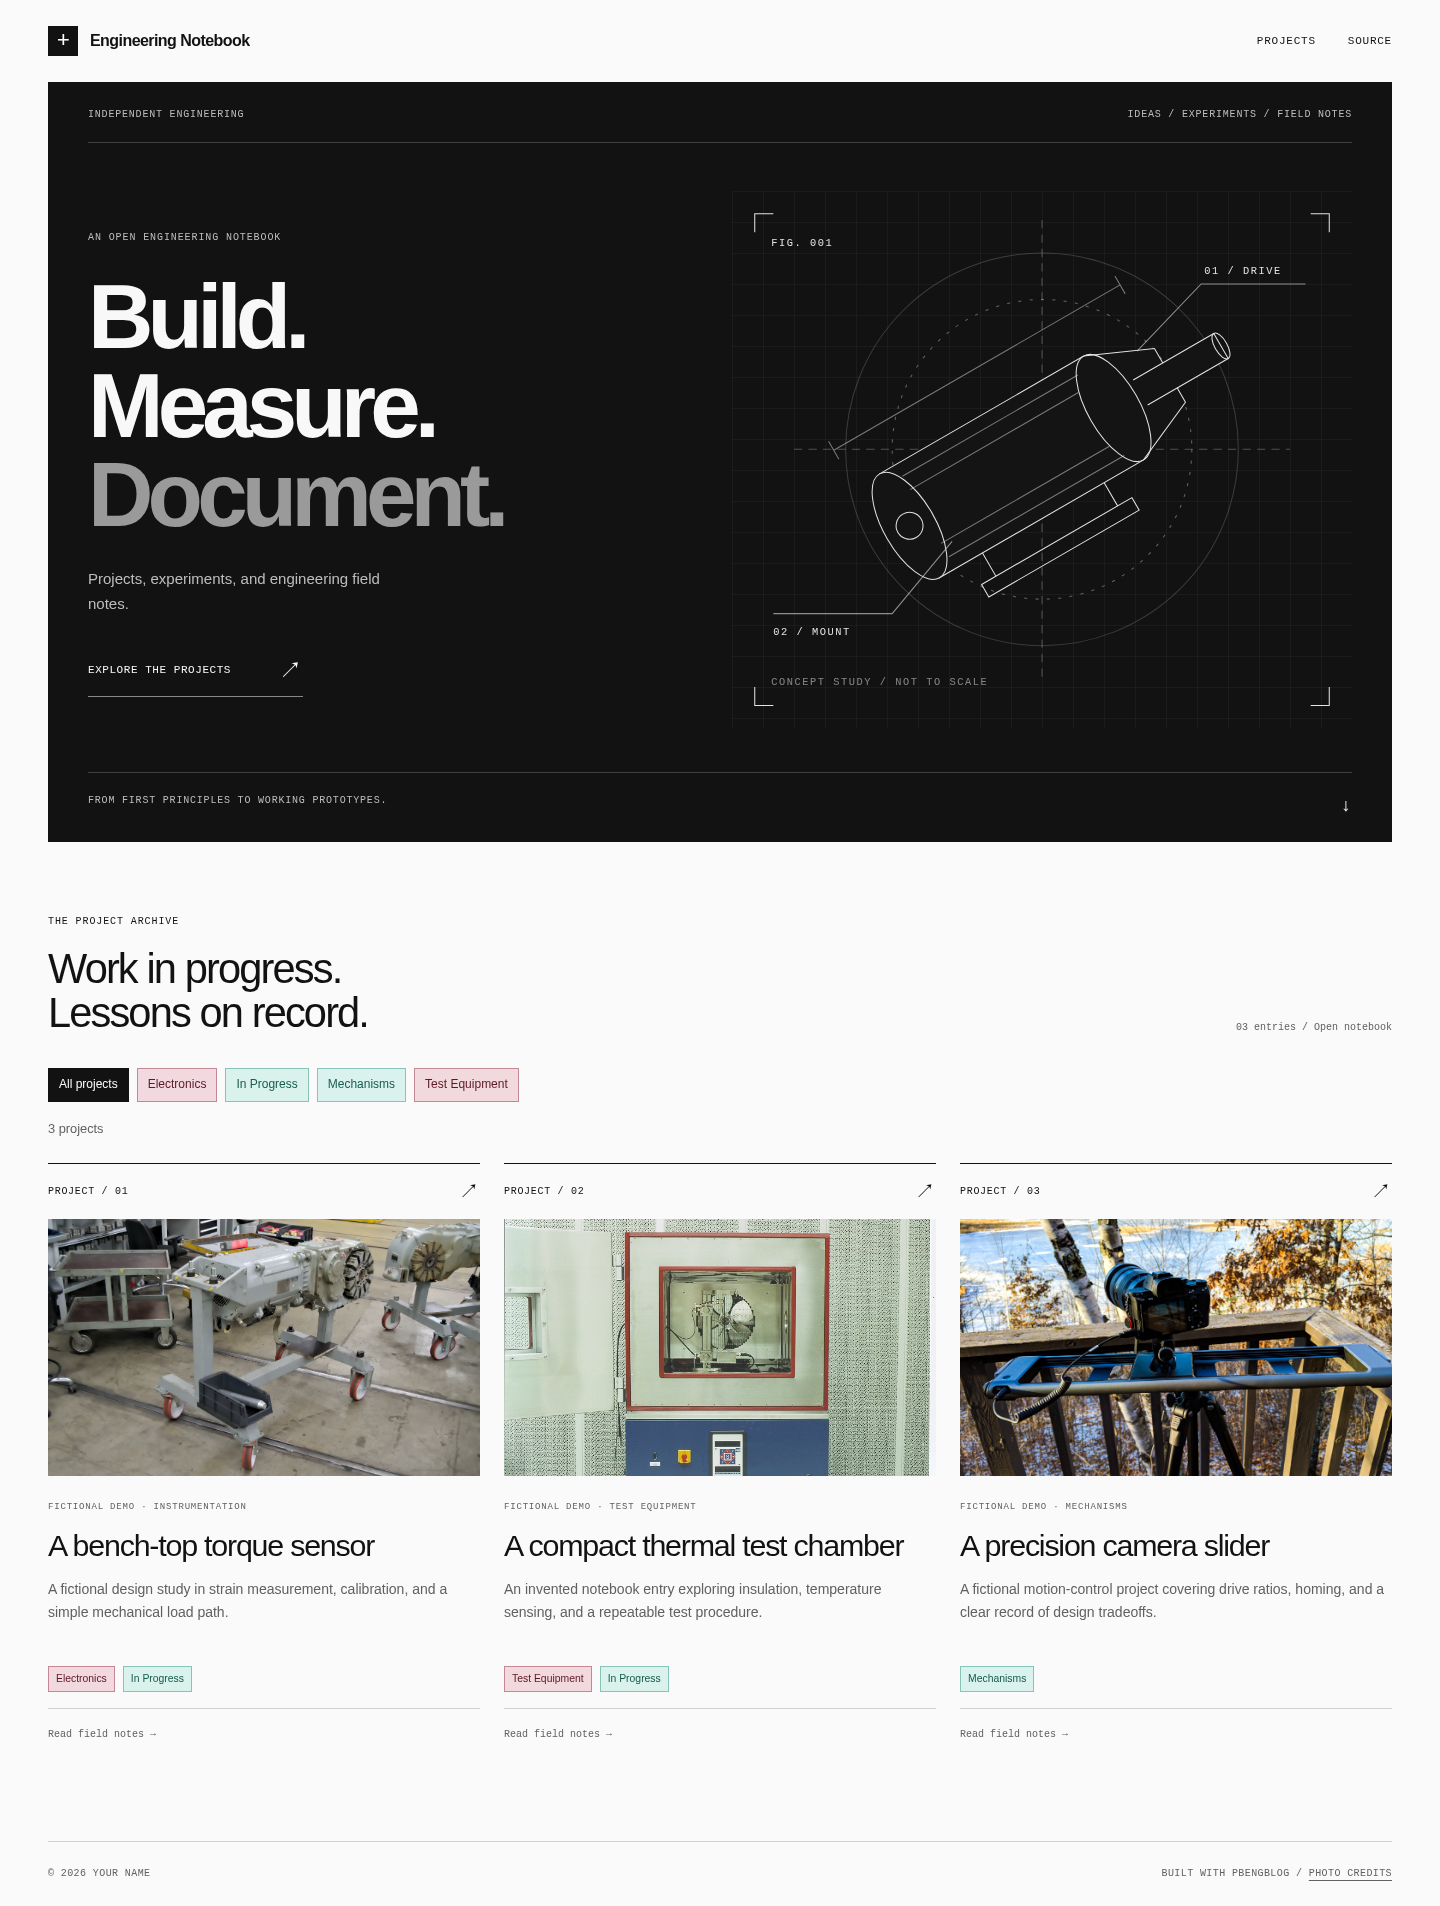
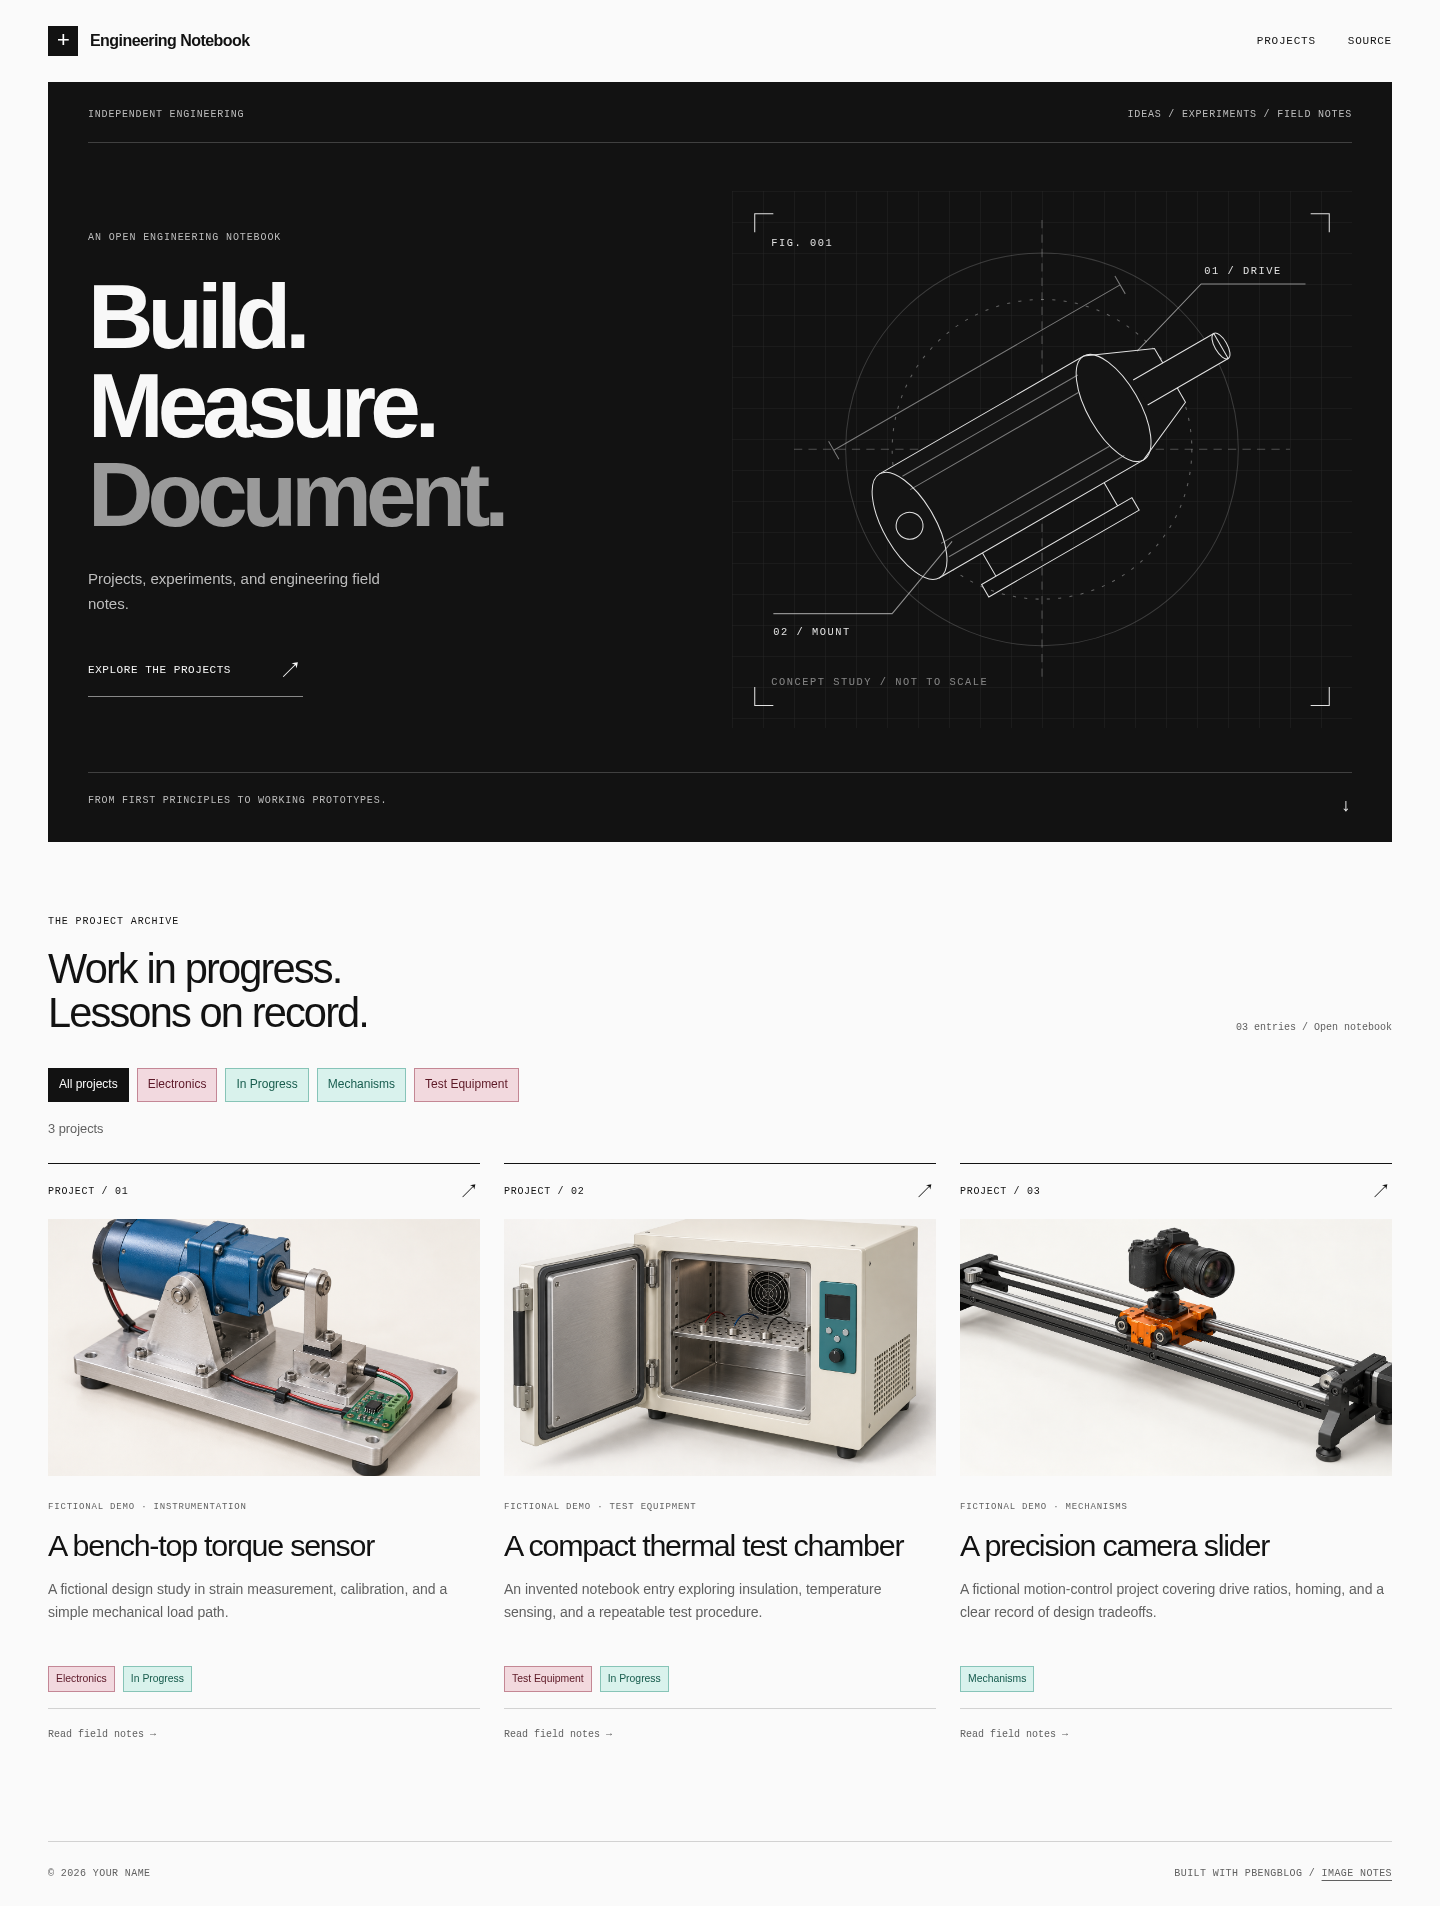
Replace example photos with generated project illustrations

Changed region(s): [[0.0312, 0.6191, 0.9688, 0.7739]]

diff --git a/shared/demo.ts b/shared/demo.ts
@@ -22,7 +22,7 @@ export const demos: Article[] = [
       { id: "10000000-0000-4000-8000-000000000001", name: "Electronics" },
       { id: "10000000-0000-4000-8000-000000000002", name: "In Progress" },
     ],
-    cover: "/demo/torque-sensor.jpg",
+    cover: "/demo/torque-sensor.png",
     version: 1,
     updatedAt: "2026-09-01T00:00:00.000Z",
     blocks: [
@@ -39,9 +39,9 @@ export const demos: Article[] = [
         id: "diagram",
         type: "image",
         props: {
-          url: "/demo/torque-sensor.jpg",
+          url: "/demo/torque-sensor.png",
           caption:
-            "Reference photo: Artic tram motor on a stand, by Antti Leppänen (CC BY 4.0). The fictional sensor project is not pictured.",
+            "Generated concept illustration of the fictional torque measurement fixture; not a validated mechanical design.",
         },
       },
       heading("math", "Show your work"),
@@ -68,7 +68,7 @@ export const demos: Article[] = [
       { id: "10000000-0000-4000-8000-000000000003", name: "Test Equipment" },
       { id: "10000000-0000-4000-8000-000000000002", name: "In Progress" },
     ],
-    cover: "/demo/thermal-chamber.jpg",
+    cover: "/demo/thermal-chamber.png",
     version: 1,
     updatedAt: "2026-08-15T00:00:00.000Z",
     blocks: [
@@ -85,9 +85,9 @@ export const demos: Article[] = [
         id: "chamber",
         type: "image",
         props: {
-          url: "/demo/thermal-chamber.jpg",
+          url: "/demo/thermal-chamber.png",
           caption:
-            "Reference photo: Weiss heat/cold test chamber, by Cjp24 (CC BY-SA 3.0). The fictional chamber project is not pictured.",
+            "Generated concept illustration of the fictional benchtop thermal chamber and temperature probes.",
         },
       },
       heading("model", "A first-order model"),
@@ -115,7 +115,7 @@ export const demos: Article[] = [
       "A fictional motion-control project covering drive ratios, homing, and a clear record of design tradeoffs.",
     category: "Fictional demo · Mechanisms",
     tags: [{ id: "10000000-0000-4000-8000-000000000004", name: "Mechanisms" }],
-    cover: "/demo/camera-slider.jpg",
+    cover: "/demo/camera-slider.png",
     version: 1,
     updatedAt: "2026-07-20T00:00:00.000Z",
     blocks: [
@@ -132,9 +132,9 @@ export const demos: Article[] = [
         id: "slider",
         type: "image",
         props: {
-          url: "/demo/camera-slider.jpg",
+          url: "/demo/camera-slider.png",
           caption:
-            "Reference photo: Rhino RŌV PRO Traveler camera slider, by Tony Webster (CC BY 2.0). The fictional slider project is not pictured.",
+            "Generated concept illustration of the fictional belt-driven camera slider.",
         },
       },
       heading("resolution", "Command resolution"),

diff --git a/apps/web/app/layout.tsx b/apps/web/app/layout.tsx
@@ -35,7 +35,7 @@ export default function Layout({ children }: { children: React.ReactNode }) {
           </span>
           <span>
             Built with PBEngBlog /{" "}
-            <a href="/demo/PHOTO-CREDITS.txt">Photo credits</a>
+            <a href="/demo/GENERATED-IMAGES.md">Image notes</a>
           </span>
         </footer>
       </body>

diff --git a/apps/web/public/demo/GENERATED-IMAGES.md b/apps/web/public/demo/GENERATED-IMAGES.md
@@ -1,0 +1,17 @@
+# Generated demo illustrations
+
+Generated with the built-in image_gen tool on 2026-10-02 for the fictional PBEngBlog examples. These are illustrative concepts, not photographs of completed projects or validated engineering drawings. The three PNG files replace the former reference photographs. Original generated outputs are copied unchanged into this directory.
+
+## Prompt set
+
+### torque-sensor.png
+
+Use case: stylized-concept. Asset type: wide website project cover for a fictional engineering blog. Primary request: A compact benchtop reaction-torque measurement fixture: small blue gearmotor on a pivoting silver aluminum cradle, horizontal motor shaft, one short perpendicular reaction arm resting on a small rectangular load cell bolted to the same base, thin wires routed to a small green measurement PCB. Mechanically plausible, no extra shafts or floating parts. Style: polished three-dimensional technical editorial illustration, clearly an imagined prototype, solid forms with realistic material detail, not wireframe or line drawing. Three-quarter view, whole device comfortably inside frame, restrained full color, off-white studio backdrop with soft shadows, consistent soft daylight, no people, no text, no labels, no logos, no watermark. Landscape composition.
+
+### thermal-chamber.png
+
+Use case: stylized-concept. Asset type: wide website project cover for a fictional engineering blog. Primary request: A compact benchtop thermal test chamber, cream insulated metal cube with hinged door open to reveal brushed steel interior, a single perforated shelf holding three tiny wired temperature probes, small rear circulation fan behind a grille, simple teal controller panel on the exterior. Plausible small laboratory enclosure. Style: polished three-dimensional technical editorial illustration, clearly an imagined prototype, solid forms with realistic material detail, not wireframe or line drawing. Three-quarter view, whole device comfortably inside frame, restrained full color, off-white studio backdrop with soft shadows, consistent soft daylight, no people, no text, no labels, no logos, no watermark. Landscape composition.
+
+### camera-slider.png
+
+Use case: stylized-concept. Asset type: wide website project cover for a fictional engineering blog. Primary request: A compact motorized camera slider: two parallel silver linear rails on a rigid black aluminum frame with feet at both ends, orange camera carriage bridging the rails, small mirrorless camera mounted on the carriage, black timing belt running along the frame between two end pulleys, stepper motor at one end. Plausible continuous assembled mechanism. Style: polished three-dimensional technical editorial illustration, clearly an imagined prototype, solid forms with realistic material detail, not wireframe or line drawing. Three-quarter view, whole device comfortably inside frame, restrained full color, off-white studio backdrop with soft shadows, consistent soft daylight, no people, no text, no labels, no logos, no watermark. Landscape composition.

diff --git a/README.md b/README.md
@@ -8,7 +8,7 @@ The template includes three clearly labeled fictional projects: a torque sensor,
 
 [![PBEngBlog homepage with a black-and-white engineering theme and three fictional projects](docs/images/homepage.png)](docs/images/homepage-full.png)
 
-Example photos: Antti Leppänen, Cjp24, and Tony Webster. See [photo sources and licenses](apps/web/public/demo/PHOTO-CREDITS.txt), including credits for the screenshot above.
+The fictional projects use generated color concept illustrations. See [image details and generation prompts](apps/web/public/demo/GENERATED-IMAGES.md).
 
 ## Architecture
 
